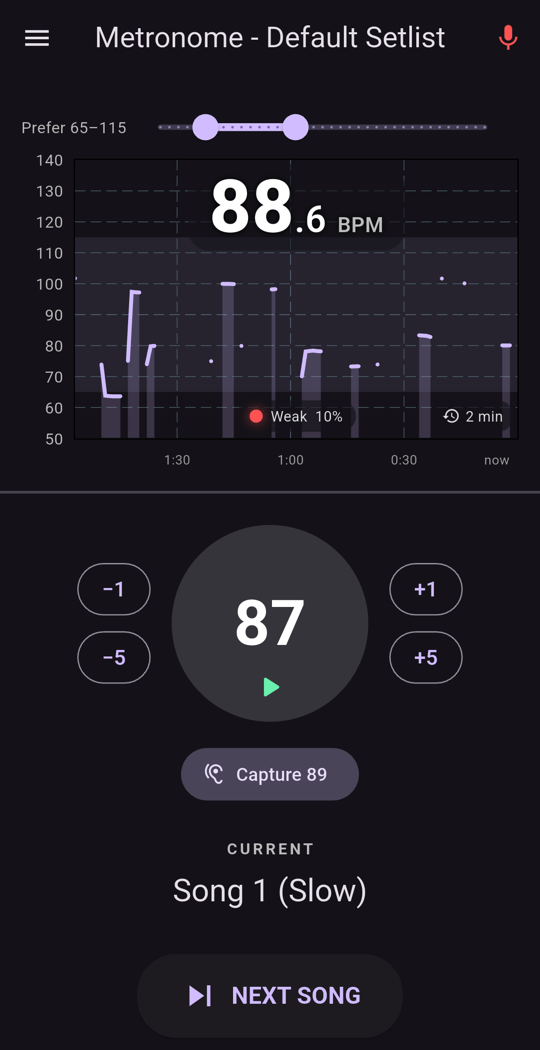
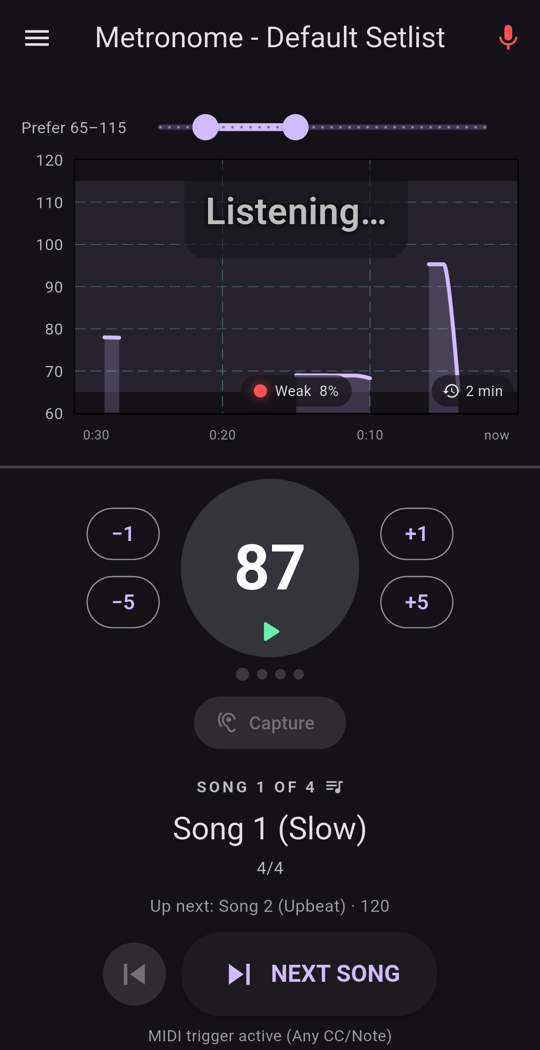
Document setlist features
README: song details, beat dots, setlist navigation (song info sheet, previous/next, restart set, remembered position), playlist menu (edit, duplicate, share, delete with undo), and the share/import text format; refresh the screenshot and project layout. CLAUDE.md: new playlist files and tests, the currentPlaylist/currentSong preferences, the _goToSong/_changePlaylists entry points, and where playlist logic belongs.

diff --git a/README.md b/README.md
@@ -19,7 +19,9 @@ snaps, solo piano, strummed guitar or a lone bass line.
   when to trust the number.
 - **Tempo history graph** — see if you're rushing or dragging over the course
   of a song.
-- **Setlists** with a target BPM per song, saved on the device.
+- **Setlists** with a BPM, time signature, length and notes per song, saved
+  on the device — jump to any song, see what's up next, and share or import
+  setlists as plain text.
 - **Count-in metronome** that starts with each song and steps aside
   automatically once the band locks onto the tempo.
 - **Nudge (±1, ±5) or capture** the tempo you're hearing to fix up a song's BPM
@@ -45,12 +47,20 @@ On first launch, allow microphone access. The app starts listening right away
 ### The metronome and setlist (bottom half)
 
 - **The circle** pulses at the current song's BPM. **Tap it** to start or stop
-  the metronome (▶ / ■).
+  the metronome (▶ / ■). The dots below it count the beats in the bar; beat 1
+  flashes brighter so count-ins are easy to follow.
 - **−5 / −1 / +1 / +5** change the current song's BPM and save it.
 - **Capture** saves the tempo you're hearing as the song's BPM (the button
   shows the number it will save). A message confirms it, with **Undo**.
-- **Next Song** moves to the next song in the setlist and starts the
-  metronome.
+- **Song info** shows *SONG n OF m*, the song's name, time signature, length,
+  notes and what's **up next**. **Tap it** to see the whole setlist (with its
+  total length) and jump to any song.
+- **⏮ / Next Song** move through the setlist and start the metronome for the
+  new song. On the last song the button becomes **Restart Set**, which goes
+  back to the top.
+
+The app remembers where you are in the set, so if it's closed mid-gig it
+reopens on the same song.
 
 ### Count-in auto-pause
 
@@ -62,9 +72,32 @@ yourself, it won't auto-pause until the next song.
 
 ### Setlists
 
-Open the ☰ menu to switch playlists, create a new one, or edit/delete an
-existing one. In the editor you can rename the playlist, add songs (name +
-BPM), edit or delete them, and drag to reorder.
+Open the ☰ menu to switch playlists, create a new one, or import one.
+Long-press and drag to reorder playlists. Each playlist's **⋮** menu has:
+
+- **Edit** — rename the playlist; add, edit, delete (with Undo) and drag to
+  reorder songs. Each song has a name, BPM, time signature, optional length
+  (m:ss) and optional notes (key, cues, who starts…).
+- **Duplicate** — make a copy, e.g. to adapt a setlist for a different gig.
+- **Share** — send the setlist as text through any app (messages, email…).
+- **Delete** — asks first, then offers **Undo**.
+
+#### Sharing and importing setlists
+
+*Share* sends a readable list your bandmates can use as-is:
+
+```
+# SCBeatWiz setlist: Friday Gig
+Superstition, 100, 4/4, 4:26 | Clav intro / horns on 2nd chorus
+Valerie, 118
+```
+
+**Import Playlist** (in the ☰ menu) takes pasted text — a shared setlist or a
+list typed by hand. One song per line with its BPM is enough, and common
+styles work: `Superstition - 100`, `1. Valerie, 118 bpm`, `120 Song name`,
+optionally with a time signature (`3/4`), a length (`4:26`) and notes after
+` | `. A `# Setlist: Name` line names the playlist. The dialog shows how many
+songs it found and how many lines it skipped before you import.
 
 ### MIDI
 
@@ -171,9 +204,13 @@ dart run flutter_native_splash:create         # splash screens (flutter_native_s
 ```
 lib/
   main.dart             UI and app state: setlists, metronome, graph, mic, MIDI
+  playlist.dart         Playlist and song model, JSON storage (pure Dart)
+  playlist_text.dart    Plain-text setlist export and lenient import (pure Dart)
   tempo_detector.dart   Real-time tempo detection (pure Dart)
   tempo_lock.dart       Decides when the band has locked onto the target tempo
 test/
+  playlist_test.dart         Model, JSON and duration tests
+  playlist_text_test.dart    Share/import format tests
   tempo_detector_test.dart   Synthetic-audio detection tests
   tempo_lock_test.dart       TempoLock unit tests
   widget_test.dart           App smoke test

diff --git a/CLAUDE.md b/CLAUDE.md
@@ -21,6 +21,11 @@ maintained.
 
 - `lib/main.dart` — the whole UI and app state (`MetronomeScreen`): setlists,
   metronome, tempo graph, mic handling, MIDI trigger, persistence.
+- `lib/playlist.dart` — `Playlist` / `SetlistItem` (name, BPM, time
+  signature, notes, optional duration), JSON encode/decode (tolerant of old
+  or partial data), duration helpers. Pure Dart.
+- `lib/playlist_text.dart` — plain-text setlist export (`playlistToText`) and
+  lenient import (`parsePlaylistText`, also accepts the app's JSON). Pure Dart.
 - `lib/tempo_detector.dart` — `TempoDetector`, pure Dart, no Flutter imports.
   Spectral-flux onset detection (2048 FFT, 10 ms hop, log bands) → harmonic-comb
   autocorrelation over the last 8 s → octave choice via a preferred range +
@@ -31,11 +36,18 @@ maintained.
 - `test/tempo_detector_test.dart` — synthesizes audio (drums, snaps, piano,
   guitar, legato bass, swing, 3/4, tempo change, noise) and checks detection.
 - `test/tempo_lock_test.dart` — unit tests for `TempoLock`.
+- `test/playlist_test.dart`, `test/playlist_text_test.dart` — model, JSON
+  compatibility, durations, and share/import format tests.
 - `test/widget_test.dart` — app smoke test.
 
 Persisted in `SharedPreferences`: `playlists` (JSON), `preferredMinBpm`,
-`preferredMaxBpm`, `historyMinutes`. Changing their shape needs a migration or
-a tolerant loader.
+`preferredMaxBpm`, `historyMinutes`, `currentPlaylist`, `currentSong`.
+Changing their shape needs a migration or a tolerant loader; new song fields
+must default sensibly in `SetlistItem.fromJson` (see `playlist_test.dart`).
+
+All song changes go through `_goToSong()` (starts the count-in metronome on
+beat 1, resets the detector, arms `TempoLock`); playlist list changes go
+through `_changePlaylists()` (keeps the current playlist selected).
 
 ## Build, run, test
 
@@ -96,8 +108,9 @@ Notes:
 
 ## Making changes
 
-- Detection logic belongs in `tempo_detector.dart` / `tempo_lock.dart`, not
-  `main.dart`, and must come with tests. Keep those files free of Flutter
+- Detection logic belongs in `tempo_detector.dart` / `tempo_lock.dart`, and
+  playlist data/format logic in `playlist.dart` / `playlist_text.dart` — not
+  `main.dart` — and must come with tests. Keep those files free of Flutter
   imports so they stay fast to unit-test.
 - When tuning the detector, run the full synthetic suite: fixes for one case
   (e.g. octave choice) easily regress another (e.g. 3/4 time reading as 2/3
